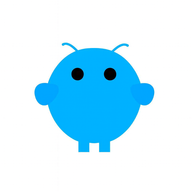
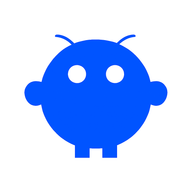
change color theme

Changed region(s): [[0.125, 0.1562, 0.875, 0.8438]]

diff --git a/app/app/[id]/page.tsx b/app/app/[id]/page.tsx
@@ -30,7 +30,7 @@ export default function MiniAppPage() {
       </div>
       <Link href="/" className="flex items-center gap-2">
         <div className="size-8 rounded-full overflow-hidden border-2 border-primary/50">
-          <Image src="/logo.png" alt="" width={32} height={32} className="size-full object-cover" />
+          <Image src="/logo.png?v=2" alt="" width={32} height={32} className="size-full object-cover" />
         </div>
         <span className="font-semibold">AppClaw</span>
         <ChevronDown className="h-4 w-4 text-muted-foreground" />
@@ -50,7 +50,7 @@ export default function MiniAppPage() {
       </div>
       <Link href="/" className="flex items-center gap-2">
         <div className="size-8 rounded-full overflow-hidden border-2 border-primary/50">
-          <Image src="/logo.png" alt="" width={32} height={32} className="size-full object-cover" />
+          <Image src="/logo.png?v=2" alt="" width={32} height={32} className="size-full object-cover" />
         </div>
         <span className="font-semibold">AppClaw</span>
         <ChevronDown className="h-4 w-4 text-muted-foreground" />
@@ -76,7 +76,7 @@ export default function MiniAppPage() {
       </div>
       <Link href="/" className="flex items-center gap-2">
         <div className="size-8 rounded-full overflow-hidden border-2 border-primary/50">
-          <Image src="/logo.png" alt="" width={32} height={32} className="size-full object-cover" />
+          <Image src="/logo.png?v=2" alt="" width={32} height={32} className="size-full object-cover" />
         </div>
         <span className="font-semibold">AppClaw</span>
         <ChevronDown className="h-4 w-4 text-muted-foreground" />

diff --git a/lib/miniapps.ts b/lib/miniapps.ts
@@ -46,7 +46,7 @@ export const MINI_APPS: MiniApp[] = [
     id: 'wallet',
     name: 'Wallet',
     description: 'View wallet, settings, and total users signed up.',
-    imageUrl: '/logo.png',
+    imageUrl: '/logo.png?v=2',
     url: '/app/wallet',
     tags: ['For Human. By Agent.'],
   },
@@ -54,7 +54,7 @@ export const MINI_APPS: MiniApp[] = [
     id: 'airdrop',
     name: 'Airdrop',
     description: 'Register for APPCLAW airdrop. Install PWA, connect wallet, tweet in format.',
-    imageUrl: '/logo.png',
+    imageUrl: '/logo.png?v=2',
     url: '/app/airdrop',
     tags: ['For Human. By Agent.'],
   },
@@ -62,7 +62,7 @@ export const MINI_APPS: MiniApp[] = [
     id: 'swap',
     name: 'Swap',
     description: 'Swap tokens on Base using Uniswap.',
-    imageUrl: '/logo.png',
+    imageUrl: '/logo.png?v=2',
     url: '/app/swap',
     tags: ['DeFi'],
   },

diff --git a/components/header.tsx b/components/header.tsx
@@ -20,7 +20,7 @@ export function Header() {
       <div className="flex h-14 items-center justify-between px-4">
         <Link href="/" className="flex items-center gap-2 shrink-0">
           <div className="size-8 rounded-full overflow-hidden border-2 border-primary/50">
-            <Image src="/logo.png" alt="" width={32} height={32} className="size-full object-cover" />
+            <Image src="/logo.png?v=2" alt="" width={32} height={32} className="size-full object-cover" />
           </div>
           <span className="font-semibold text-lg">AppClaw</span>
         </Link>

diff --git a/app/layout.tsx b/app/layout.tsx
@@ -24,7 +24,7 @@ const vt323 = VT323({
 export const metadata: Metadata = {
   title: 'AppClaw — App For Human. Build By Agent.',
   description: 'App store for mini apps. App For Human. Build By Agent.',
-  icons: { icon: '/logo.png', apple: '/logo.png' },
+  icons: { icon: '/logo.png?v=2', apple: '/logo.png?v=2' },
   appleWebApp: { capable: true, title: 'AppClaw' },
 }
 

diff --git a/next.config.ts b/next.config.ts
@@ -17,6 +17,12 @@ const nextConfig: NextConfig = {
     root: appRoot,
   },
   images: {
+    localPatterns: [
+      {
+        pathname: "/logo.png",
+        search: "?v=2",
+      },
+    ],
     remotePatterns: [
       {
         protocol: "https",

diff --git a/app/globals.css b/app/globals.css
@@ -26,9 +26,9 @@
   --muted: #e5e5e5;
   --muted-foreground: #525252;
   --border: #e5e5e5;
-  --primary: #00bfff;
+  --primary: #0000ff;
   --primary-foreground: #ffffff;
-  --accent: #00bfff;
+  --accent: #0000ff;
 }
 
 @layer base {
